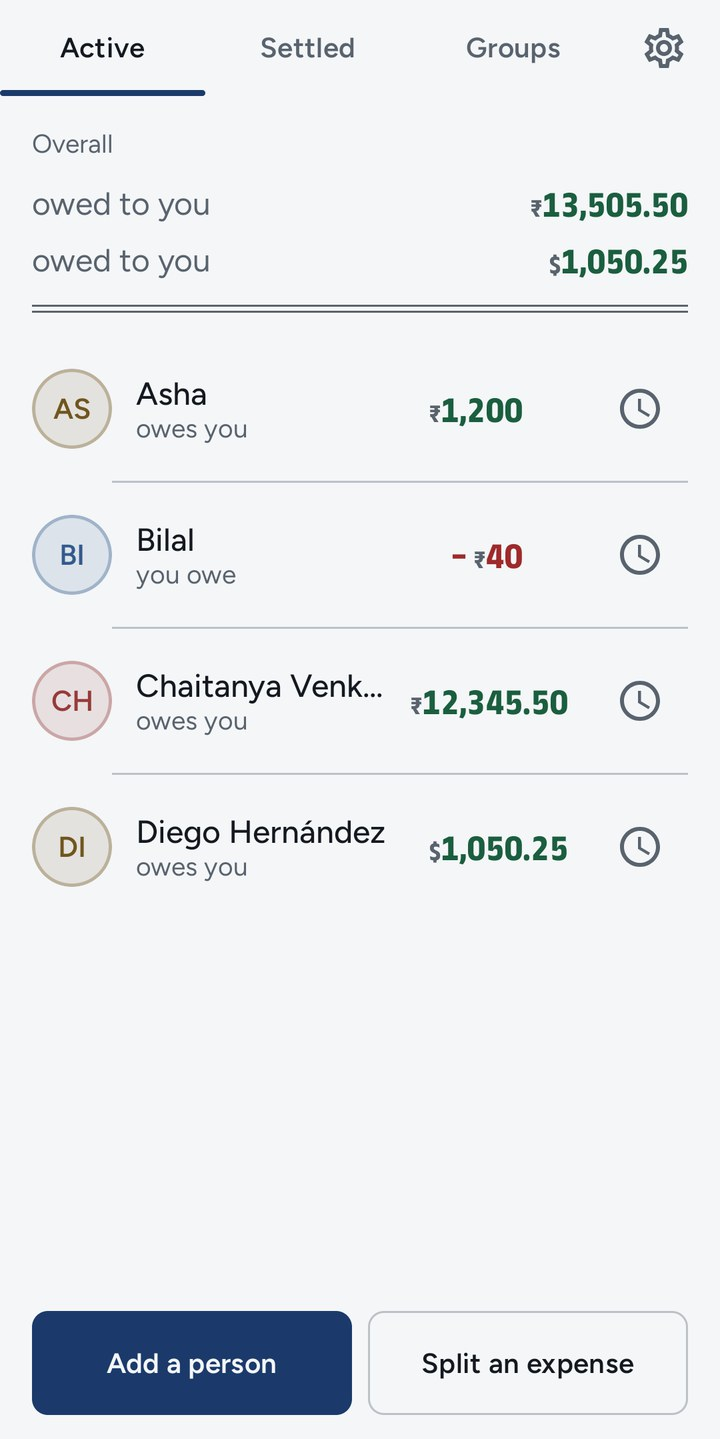
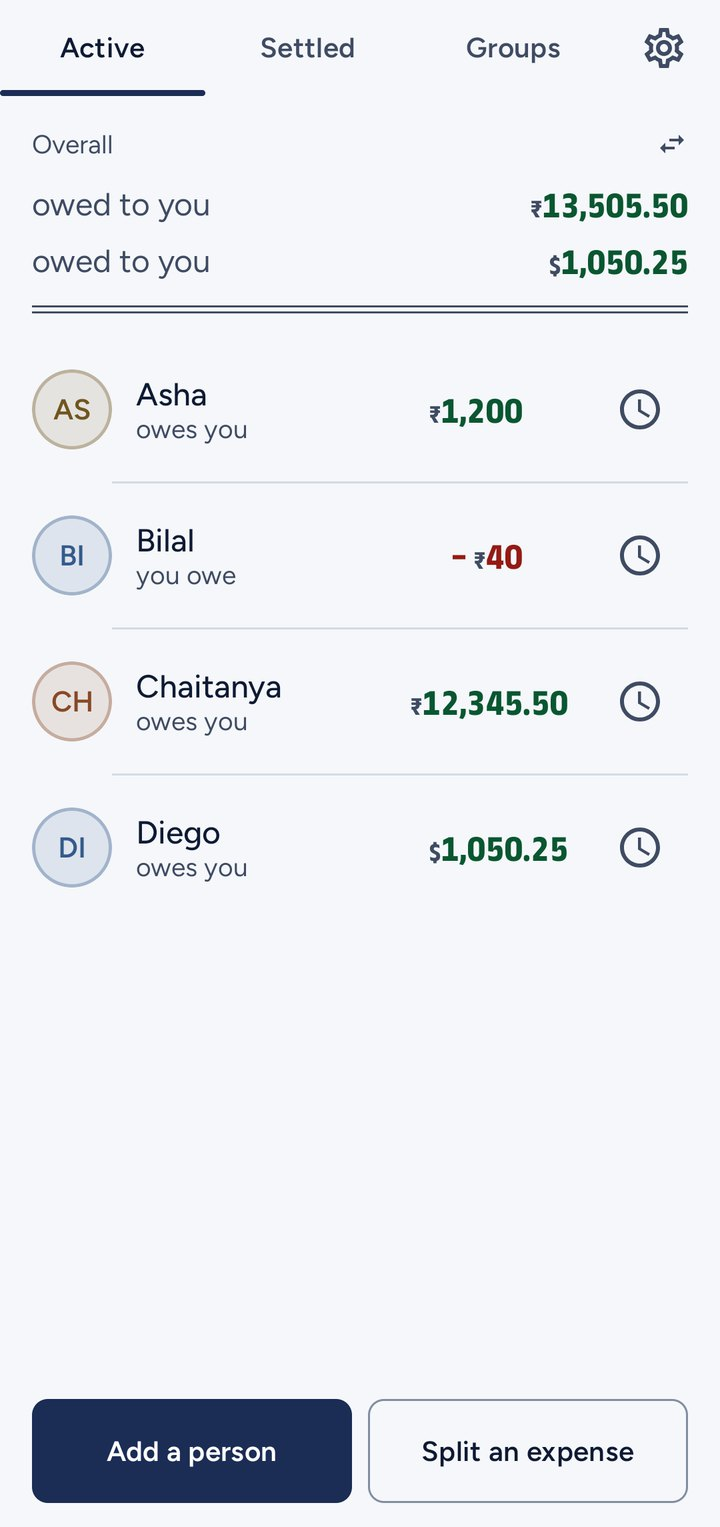
docs: new screenshots from the phone
Balances in Neel, a four-way split with two locked shares in Diya, and a group in Kamal, captured
from the current build on a phone with sample data, the status bar cropped off. The three shots
showed Paper, Midnight and Amoled, which are gone. The alt text names each theme and the figures
on screen.

The test counts are brought up to date: 421 on the JVM and 184 on a device.

diff --git a/README.md b/README.md
@@ -19,9 +19,9 @@
 
 <table>
 <tr>
-<td align="center" width="33%"><img src="docs/screenshots/balances.jpeg" width="235" alt="Balances screen in the Paper theme. Overall, owed to you ₹13,505.50 and $1,050.25 on separate lines above a double rule, then four people: Asha owes you ₹1,200, you owe Bilal ₹40, Chaitanya owes you ₹12,345.50, Diego owes you $1,050.25. Add a person and Split an expense sit at the foot"><br><sub><b>Balances</b><br>one figure per currency, never summed</sub></td>
-<td align="center" width="33%"><img src="docs/screenshots/split.jpeg" width="235" alt="Adjust the shares screen in the Midnight theme, splitting ₹2,400 for dinner at Trishna four ways. Asha is locked at ₹800 and Bilal at ₹533.33; you take ₹533.34 and Chaitanya ₹533.33, and the shares add up to ₹2,400"><br><sub><b>Split</b><br>edit one share, the rest redistribute</sub></td>
-<td align="center" width="33%"><img src="docs/screenshots/groups.jpeg" width="235" alt="Group screen for Goa, October in the Amoled theme: four members and three expenses. Who pays whom lists three payments to you, from Bilal, Asha and Chaitanya, with fewest payments on, above where everyone stands"><br><sub><b>Groups</b><br>a trip, kept apart from your balances</sub></td>
+<td align="center" width="33%"><img src="docs/screenshots/balances.jpeg" width="235" alt="Balances screen in the Neel theme, navy on cool white. Overall, owed to you ₹13,505.50 and $1,050.25 on separate lines above a double rule, then four people: Asha owes you ₹1,200, you owe Bilal ₹40, Chaitanya owes you ₹12,345.50, Diego owes you $1,050.25. Add a person and Split an expense sit at the foot"><br><sub><b>Balances</b><br>one figure per currency, never summed</sub></td>
+<td align="center" width="33%"><img src="docs/screenshots/split.jpeg" width="235" alt="Adjust the shares screen in the Diya theme, marigold on blue-grey, splitting ₹2,400 for dinner at Trishna four ways. Asha is locked at ₹800 and Bilal at ₹533.33; you take ₹533.34 and Chaitanya ₹533.33, and the shares add up to ₹2,400"><br><sub><b>Split</b><br>edit one share, the rest redistribute</sub></td>
+<td align="center" width="33%"><img src="docs/screenshots/groups.jpeg" width="235" alt="Group screen for Goa, October in the Kamal theme, pine green with a lotus-pink accent: four members and three expenses. Who pays whom lists three payments to you of ₹4,500 each, from Asha, Bilal and Chaitanya, with fewest payments on. Where everyone stands shows you owed ₹13,500 and each of the other three owing ₹4,500"><br><sub><b>Groups</b><br>a trip, kept apart from your balances</sub></td>
 </tr>
 </table>
 
@@ -161,7 +161,7 @@ Kotlin and Jetpack Compose with Material 3. Room for storage, with exported sche
 
 Type is Anek Latin by Ek Type for amounts and titles and Figtree for everything else, shipped as static subset instances because API 24 and 25 ignore variable font axes.
 
-412 tests on the JVM covering money arithmetic, settle-up, per-currency totals, amount formatting, CSV, summaries, the share codec and theme contrast, and 158 instrumentation tests covering every migration, the full migration chain, and the settle, reopen, rollback, edit, delete, reconcile and move-debt paths against a real database.
+421 tests on the JVM covering money arithmetic, settle-up, per-currency totals, amount formatting, CSV, summaries, the share codec and theme contrast, and 184 instrumentation tests covering every migration, the full migration chain, and the settle, reopen, rollback, edit, delete, reconcile and move-debt paths against a real database.
 
 ## Build from source
 
